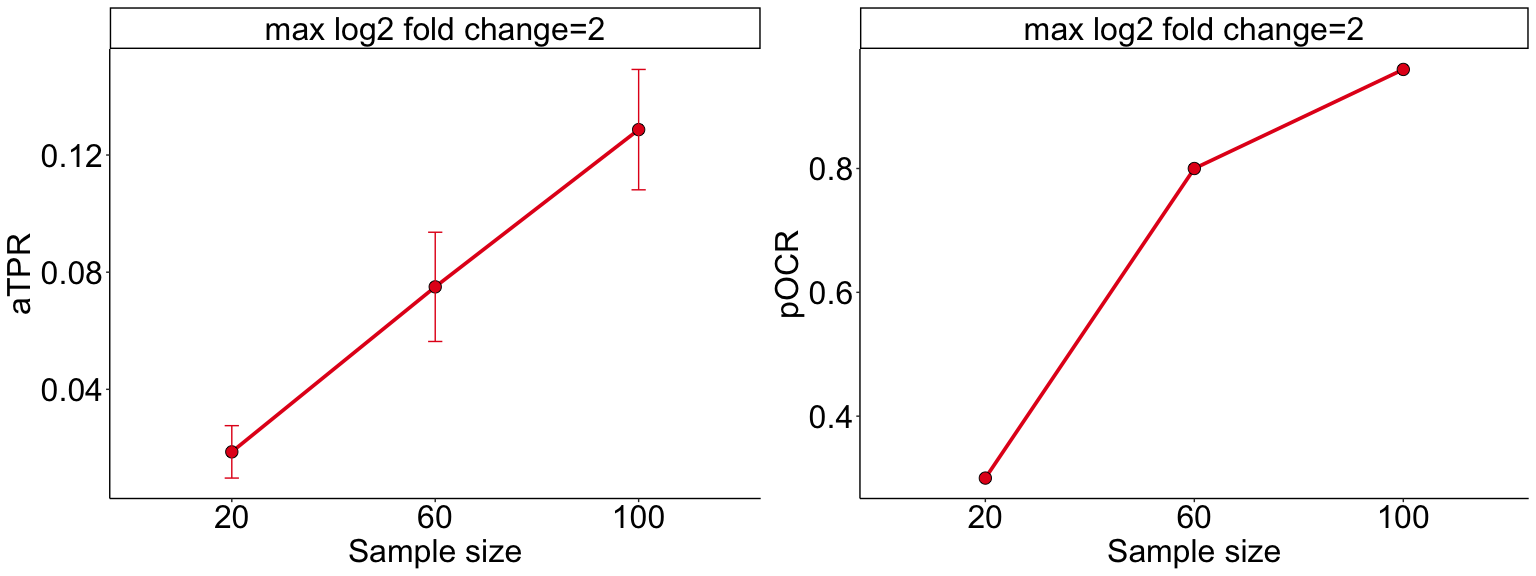
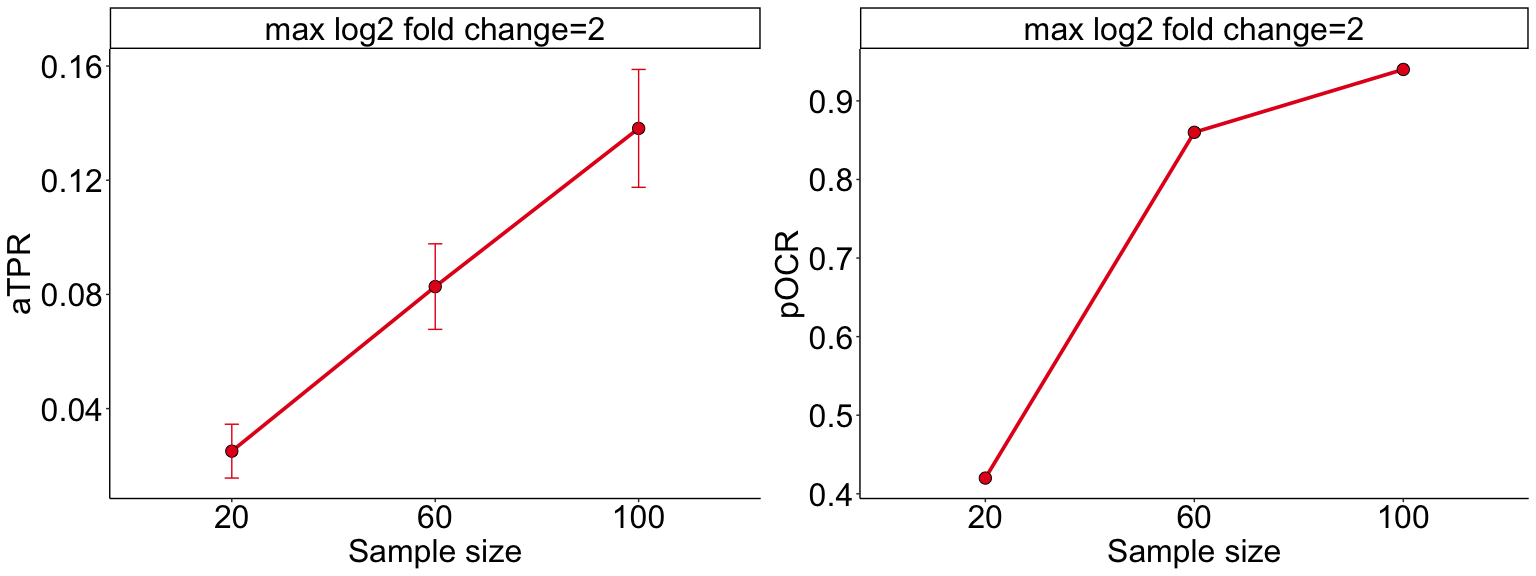
update

diff --git a/README.md b/README.md
@@ -107,16 +107,25 @@ hypothesis when the null hypothesis is false. An pOCR at least 90% will
 ensure a high likelihood of making some discoveries. Thus in this
 example, around 100 samples should be well-powered.
 
+``` r
+knitr::kable(res1$power, format = "markdown")
+```
+
 | Sample size | max log2 fold change | power |
 |:------------|:---------------------|------:|
-| 20          | 2                    | 0.424 |
-| 60          | 2                    | 0.840 |
-| 100         | 2                    | 0.930 |
+| 20          | 2                    | 0.448 |
+| 60          | 2                    | 0.790 |
+| 100         | 2                    | 0.926 |
 
 #### 2.1.2 Output2: $R^2$ (variance explained) and community-level power curve
 
 $R^2$: the proportion of the total variation in the response data that
 is explained by the explanatory variables.
+
+``` r
+res1$plot
+```
+
 ![](README_files/figure-gfm/unnamed-chunk-6-1.png)<!-- -->
 
 ### 2.2 Estimate Taxa-Level Power for Case-Control Study
@@ -139,11 +148,15 @@ truly differential taxa that are correctly identified as such. SD, ymax
 and ymin represents standard deviation, the upper and lower bound of the
 95% confidence interval for the aTPR, respectively.
 
+``` r
+knitr::kable(res2$aTPR, format = "markdown")
+```
+
 | Sample size | max log2 fold change |      aTPR |
 |:------------|:---------------------|----------:|
-| 20          | 2                    | 0.0186512 |
-| 60          | 2                    | 0.0749891 |
-| 100         | 2                    | 0.1286695 |
+| 20          | 2                    | 0.0250932 |
+| 60          | 2                    | 0.0827398 |
+| 100         | 2                    | 0.1381617 |
 
 #### 2.2.2 Output1: Taxa-level power table - pOCR
 
@@ -151,13 +164,21 @@ and ymin represents standard deviation, the upper and lower bound of the
 the conventional understanding of power, differs in that the specific
 taxa rejected need not be consistent.
 
+``` r
+knitr::kable(res2$pOCR, format = "markdown")
+```
+
 | Sample size | max log2 fold change | pOCR |
 |:------------|:---------------------|-----:|
-| 20          | 2                    | 0.30 |
-| 60          | 2                    | 0.80 |
-| 100         | 2                    | 0.96 |
+| 20          | 2                    | 0.42 |
+| 60          | 2                    | 0.86 |
+| 100         | 2                    | 0.94 |
 
 #### 2.2.3 Output3: aTPR power curve(left) and pOCR power curve(right)
+
+``` r
+res2$plot
+```
 
 ![](README_files/figure-gfm/unnamed-chunk-10-1.png)<!-- -->
 
